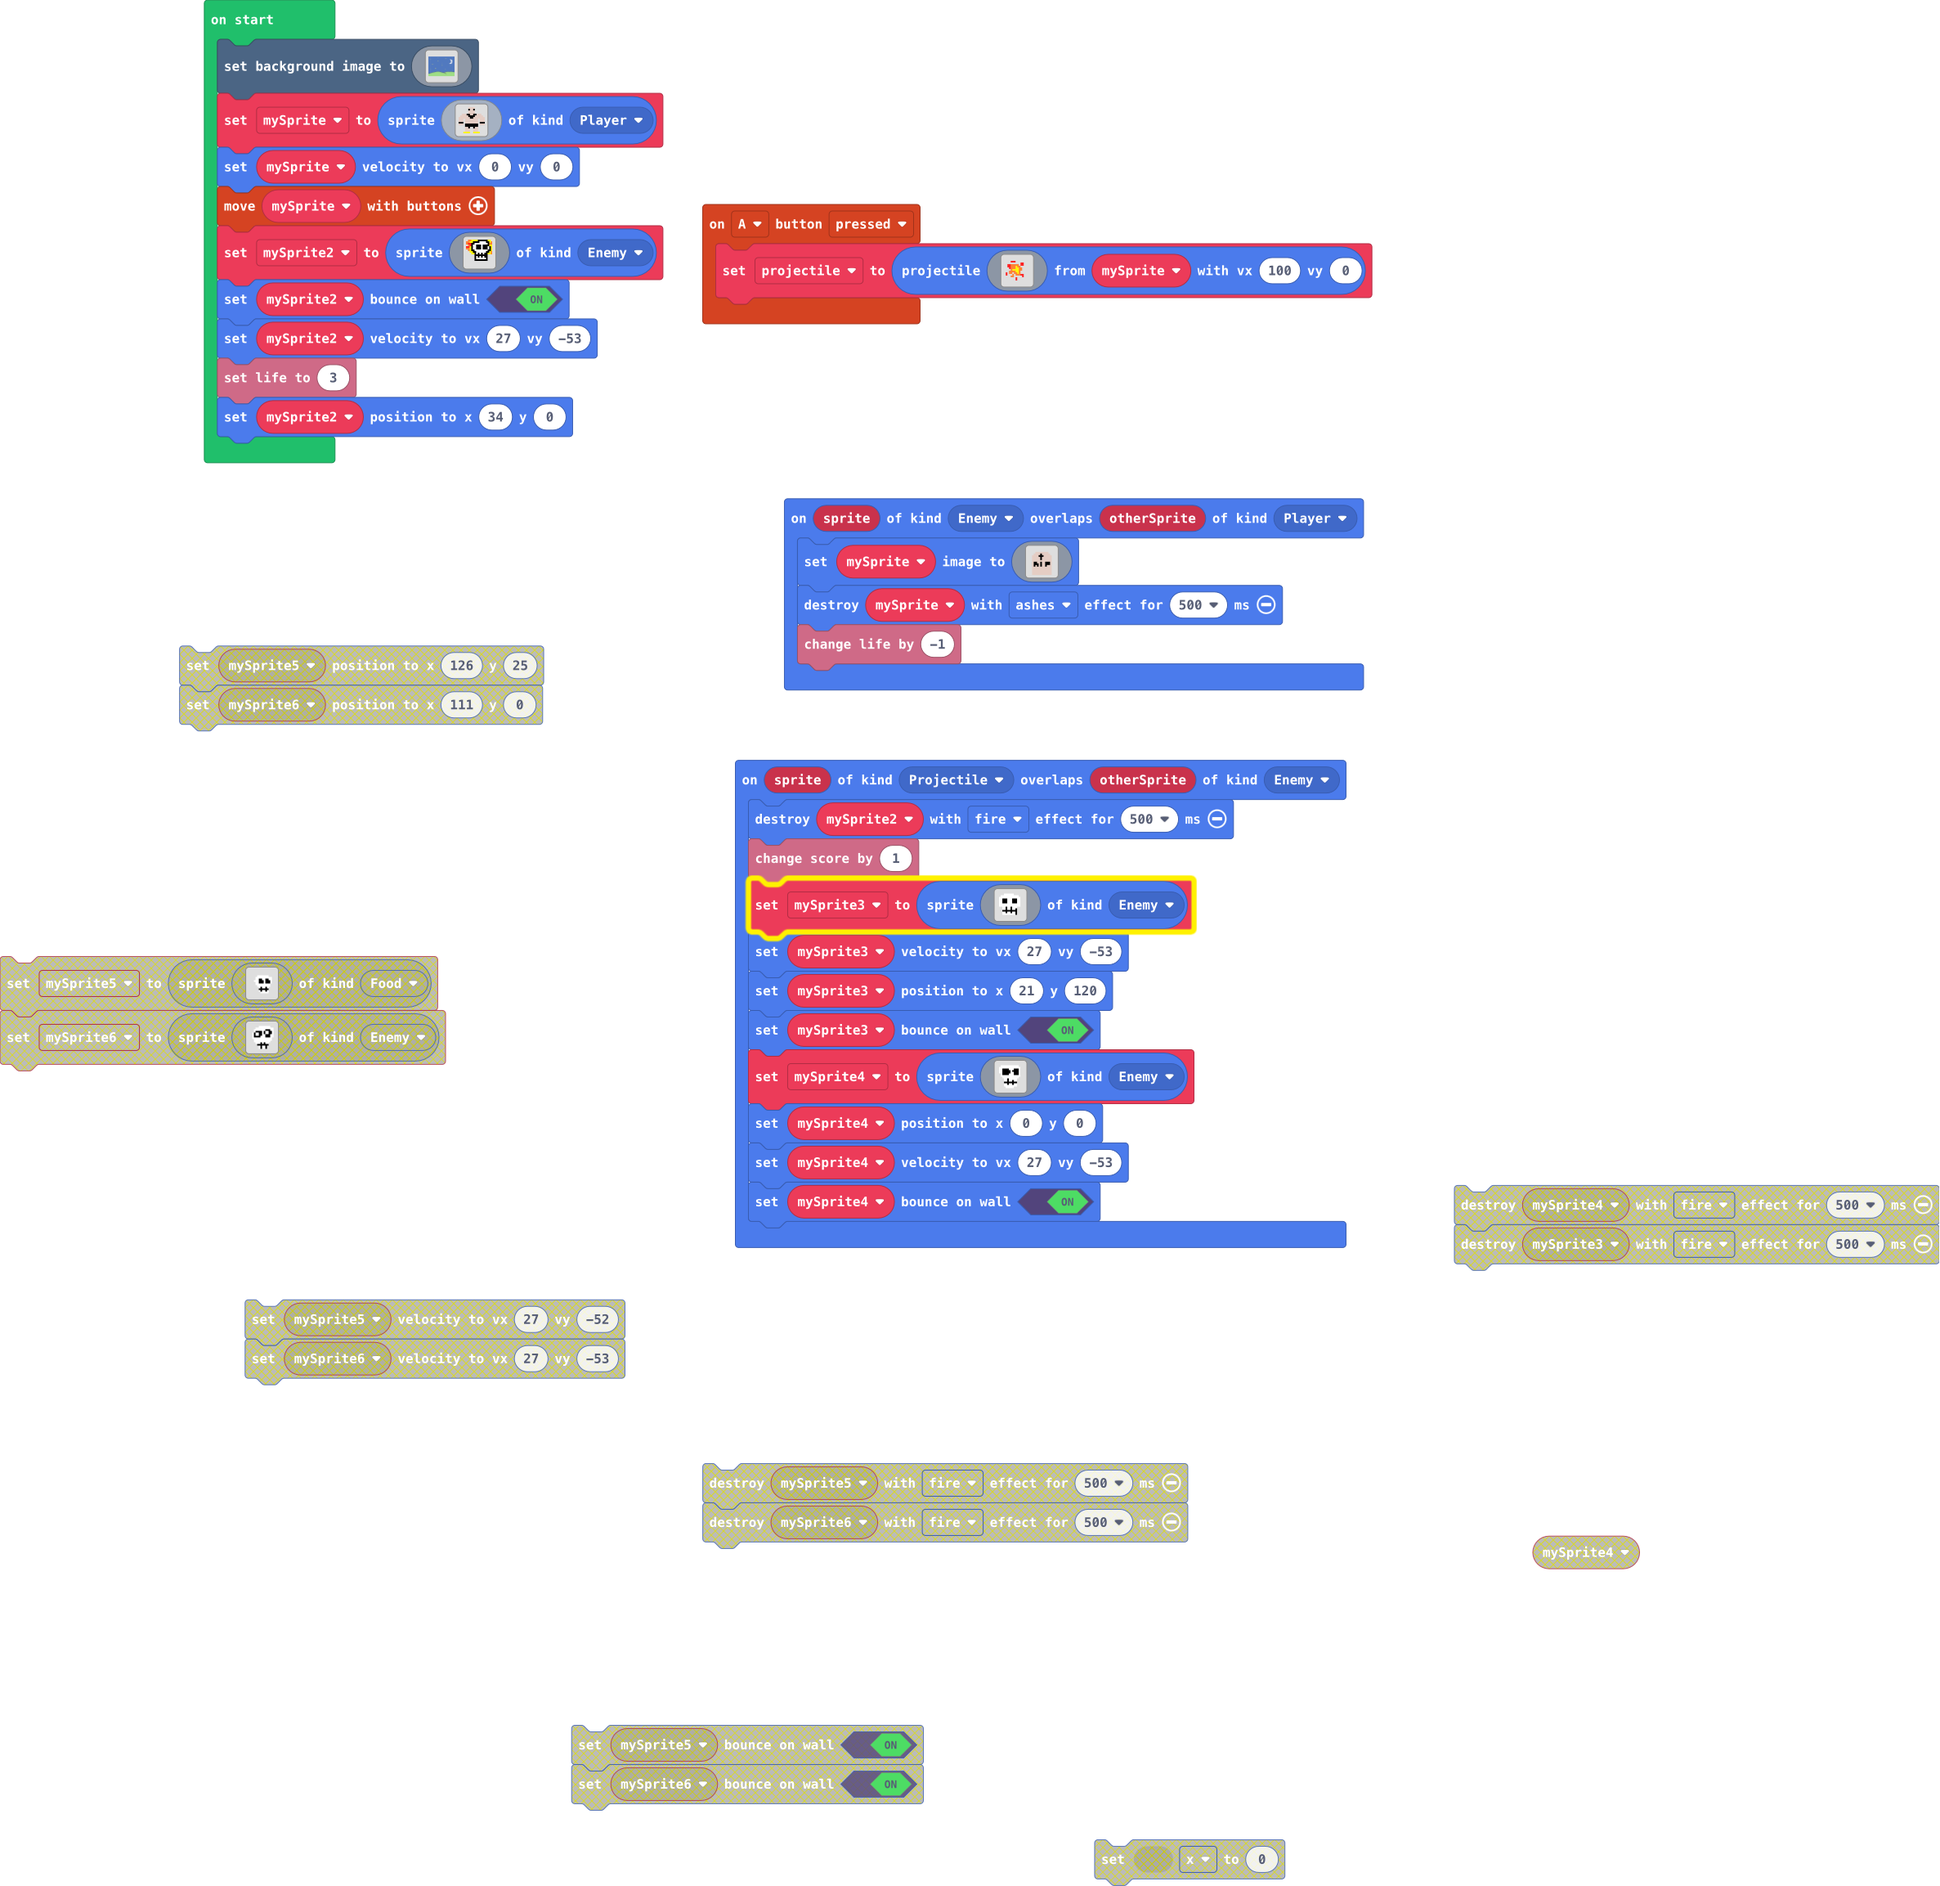
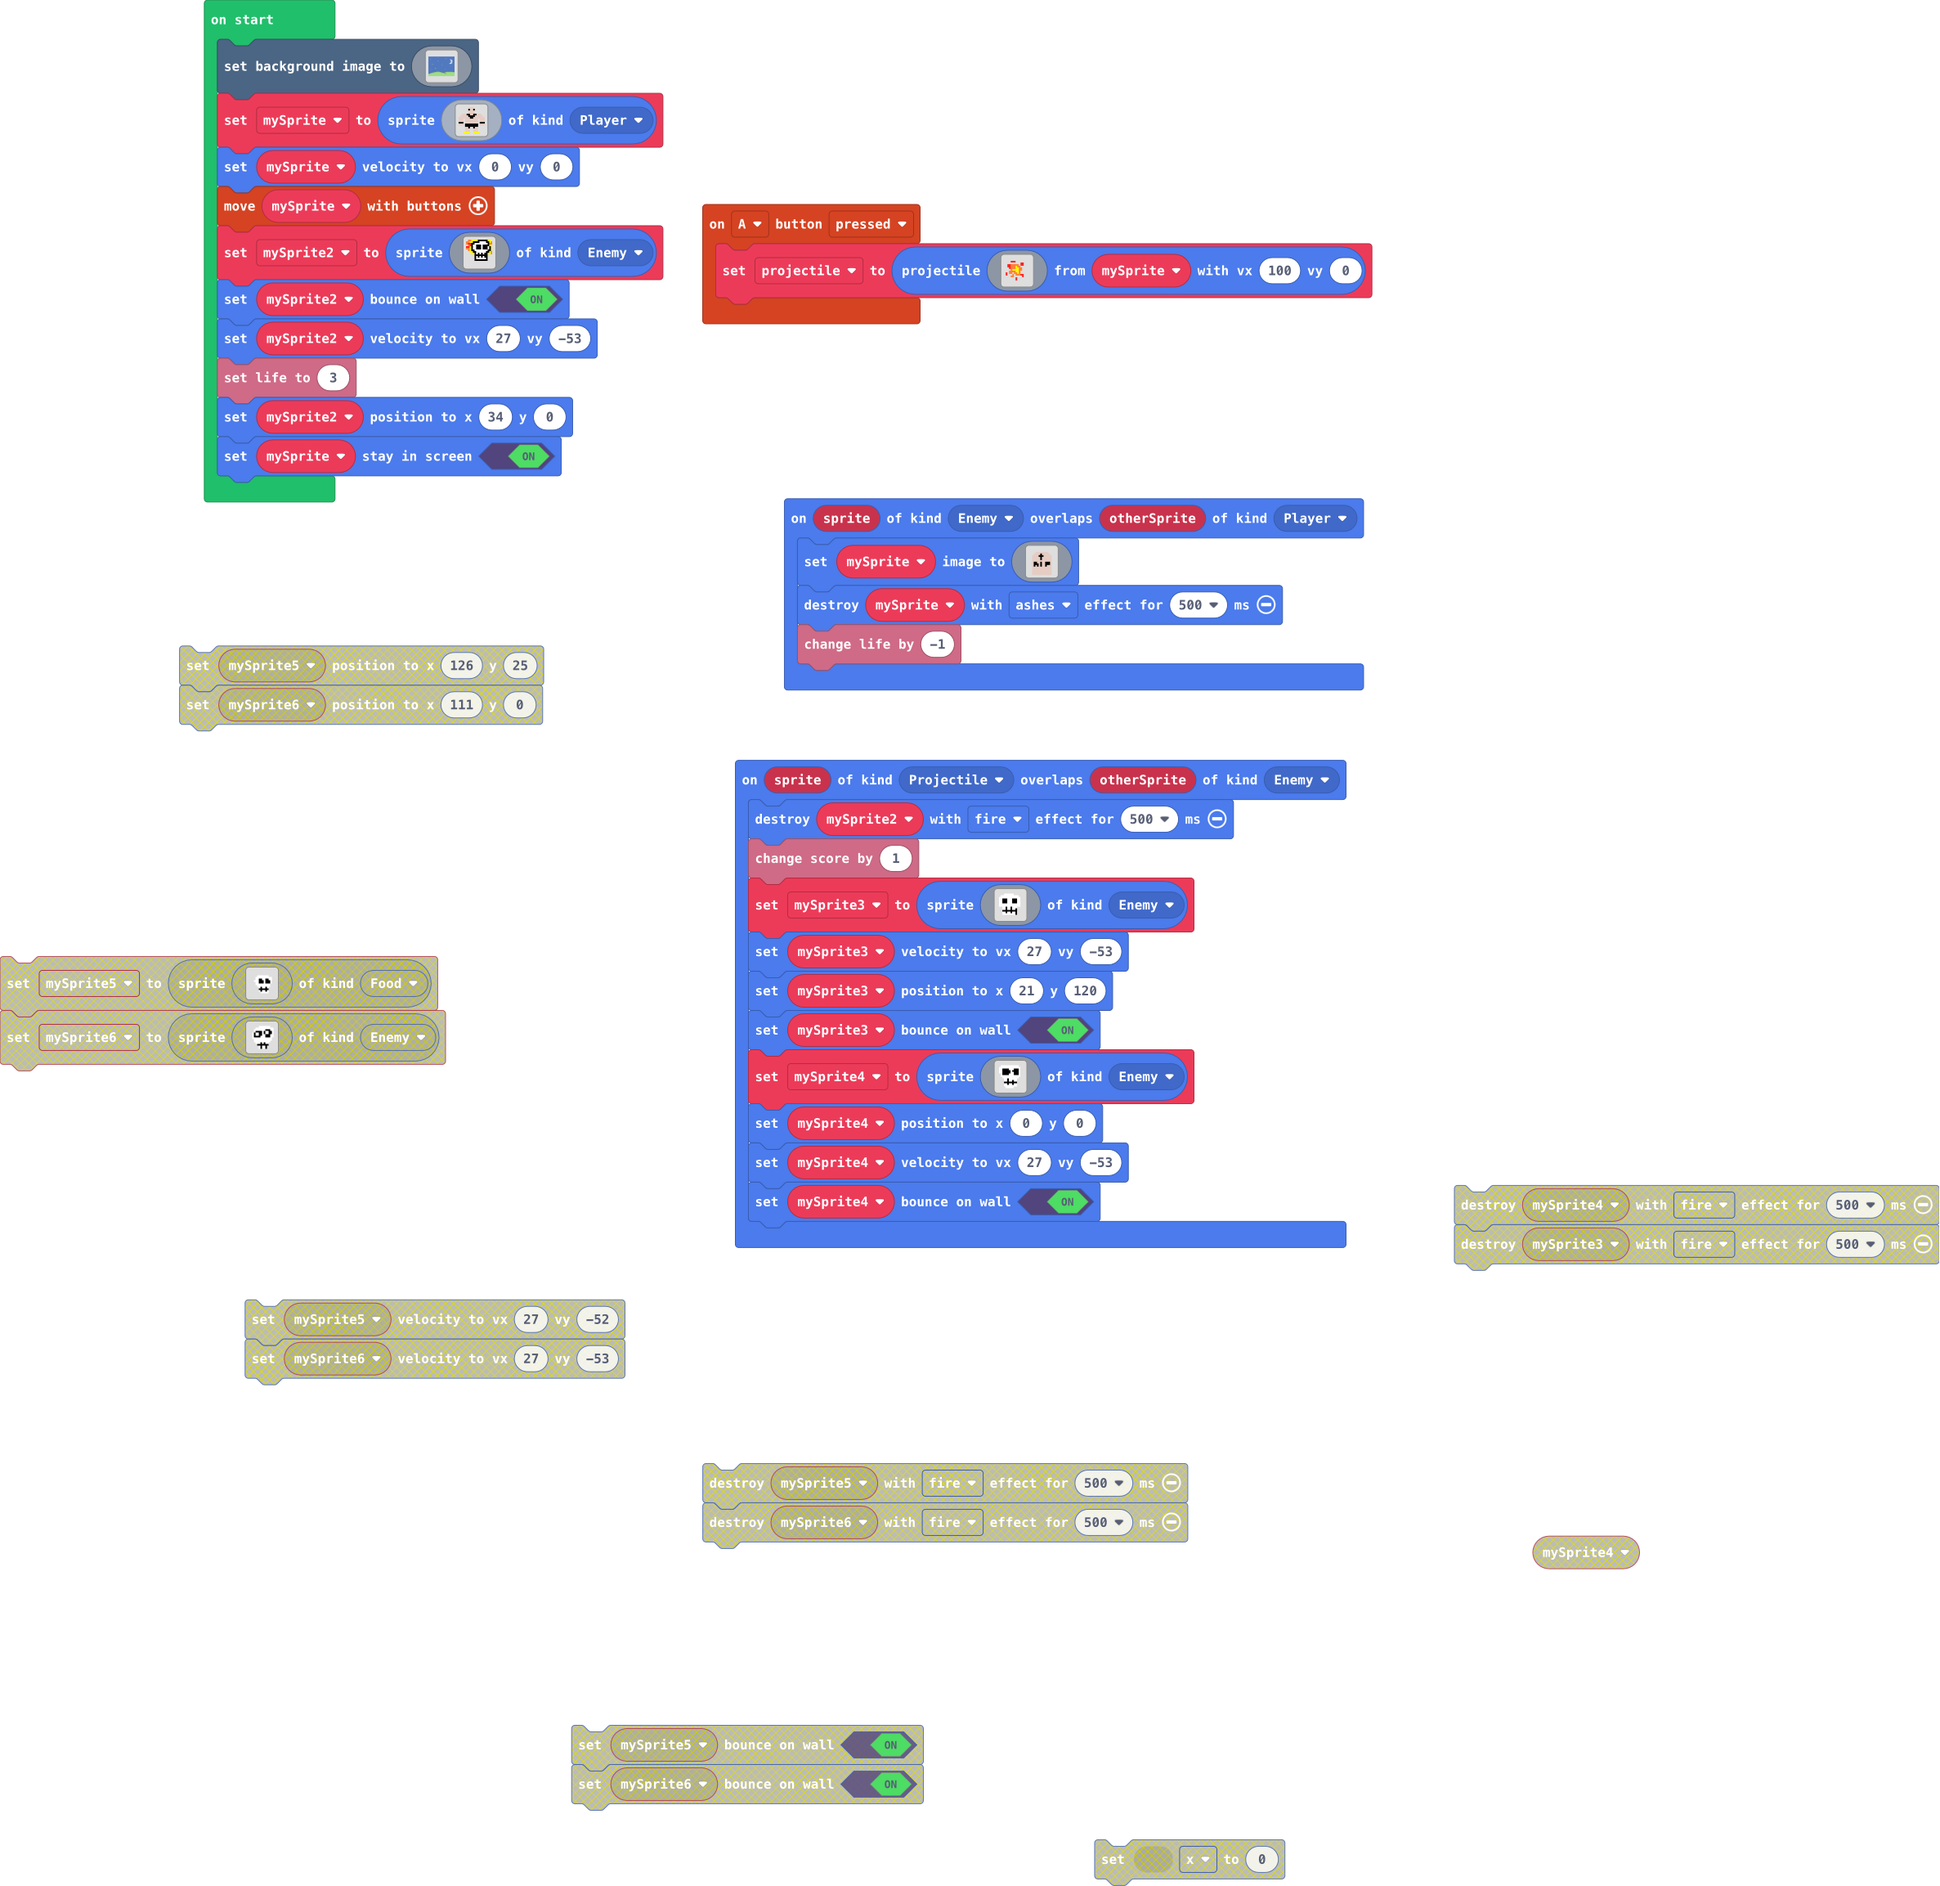
Update main.blocks, main.ts

Changed region(s): [[0.3742, 0.4371, 0.6237, 0.4996], [0.0936, 0.2186, 0.3118, 0.281]]

diff --git a/main.ts b/main.ts
@@ -134,3 +134,4 @@ mySprite2.setBounceOnWall(true)
 mySprite2.setVelocity(27, -53)
 info.setLife(3)
 mySprite2.setPosition(34, 0)
+mySprite.setStayInScreen(true)
